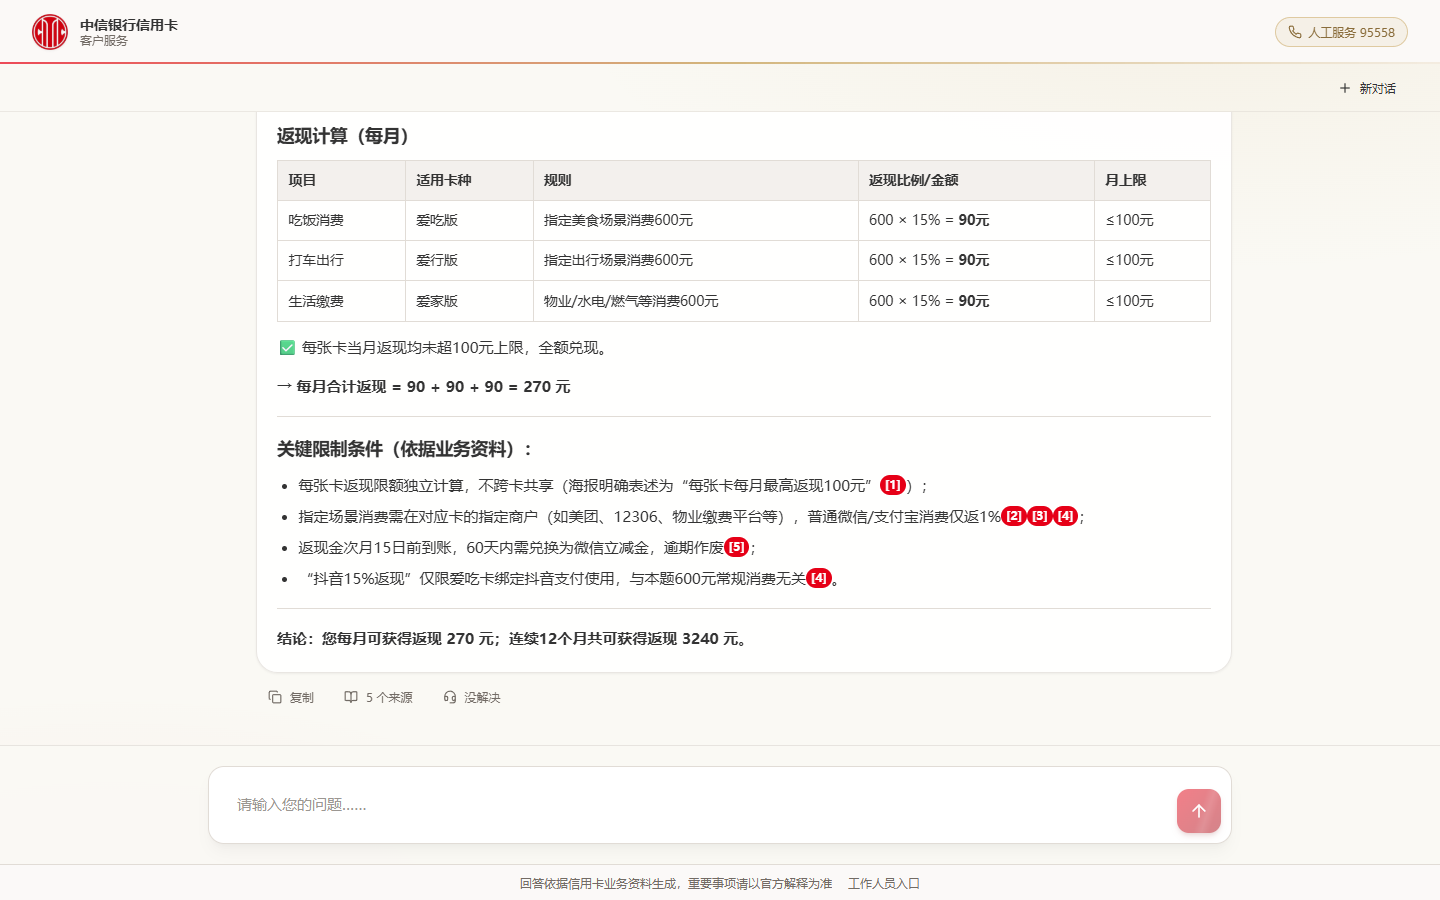
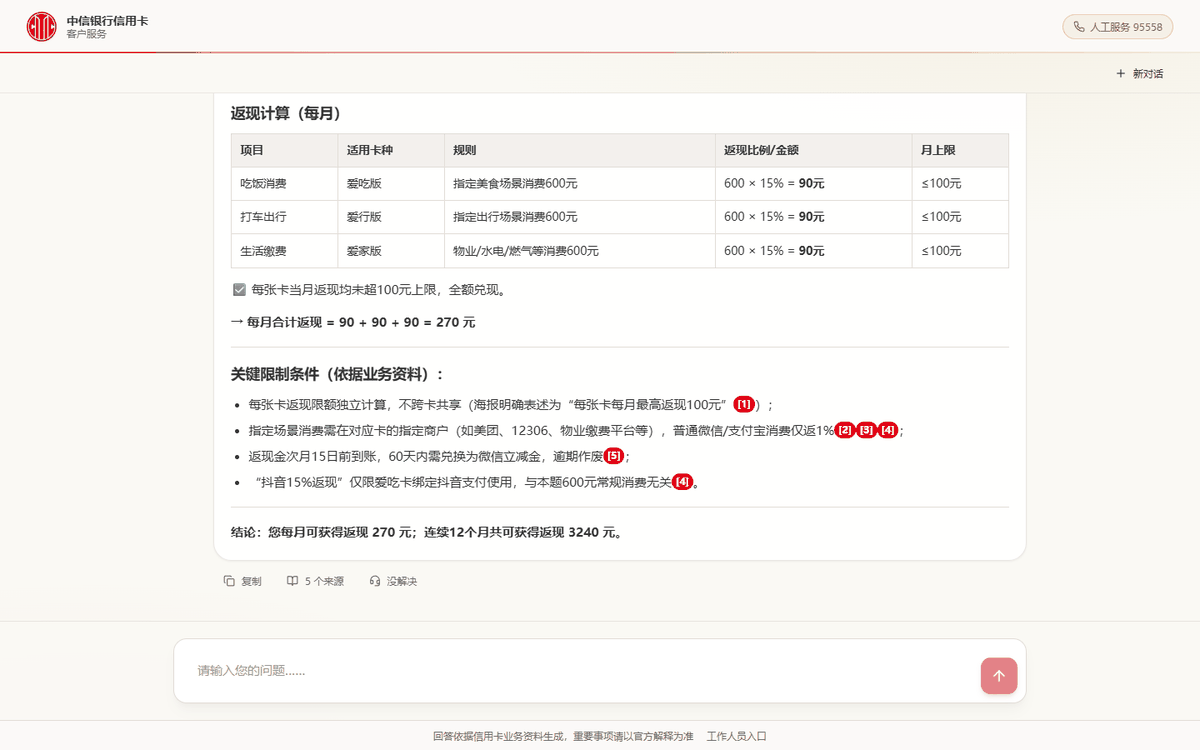
docs: 精简 README（移除本地测试/部署说明），压缩展示截图提升加载稳定性

diff --git a/README.md b/README.md
@@ -68,45 +68,3 @@ cd frontend; pnpm test; pnpm build
 
 当前基线：后端 140 个测试通过，前端 19 个测试通过，生产构建通过。
 
-## 发给别人测试（公网地址）
-
-```text
-publish-public.cmd
-```
-
-脚本会构建前端、启动后端，并用 cloudflared 开出临时公网地址。窗口输出里的
-`https://xxxx.trycloudflare.com` 就是发给测试人员的链接，对方无需安装任何环境。
-关闭窗口即停止对外服务。
-
-注意：
-
-- 该地址是临时隧道，每次启动都会变化，且不保证可用性，适合短期测试。
-- 链接指向你本机的真实业务资料，请只发给可信的测试人员。
-- 后台 `/admin` 也在这个地址下，测试期间请不要把该地址公开发布。
-
-## 部署与密钥安全
-
-本项目的 API Key **只保存在本地数据库** `backend/data/app.db` 中（通过设置页写入），代码中无任何硬编码密钥；`.gitignore` 已排除 `backend/data/`、`.env`、`node_modules/`、`dist/` 等内容，正常推送 GitHub 不会泄露。
-
-推送到公开仓库前建议自查：
-
-```powershell
-git add -A
-git status                     # 确认暂存清单里没有 backend/data/ 下的文件
-git grep --cached -n "sk-"     # 确认暂存内容中没有 key 字样
-```
-
-### GitHub
-
-正常 `git init` → commit → push 即可，无需额外处理。
-
-### ModelScope 创空间
-
-仓库根目录自带 `Dockerfile`（多阶段构建：Node 构建前端 → Python 运行后端，单容器同时托管页面与接口）：
-
-1. 在 ModelScope 创建创空间，SDK 选择 **Docker**，关联本仓库
-2. 平台自动按 `Dockerfile` 构建，对外端口为 **7860**
-3. 部署完成后打开 `/admin` → 模型设置，填入你自己的 API Key 即可使用
-4. 提示：本地 Reranker 模型首次使用会自动下载；若空间网络无法访问 HuggingFace，可设置环境变量 `PKA_RERANKER_BACKEND=llm` 改用 LLM 排序，或预先下载模型放入 `backend/data/models/reranker/`
-
-在线演示环境建议：在阿里云百炼后台为 demo 单独创建**设了消费上限的子 Key**，主 Key 不要用于任何公开部署。
